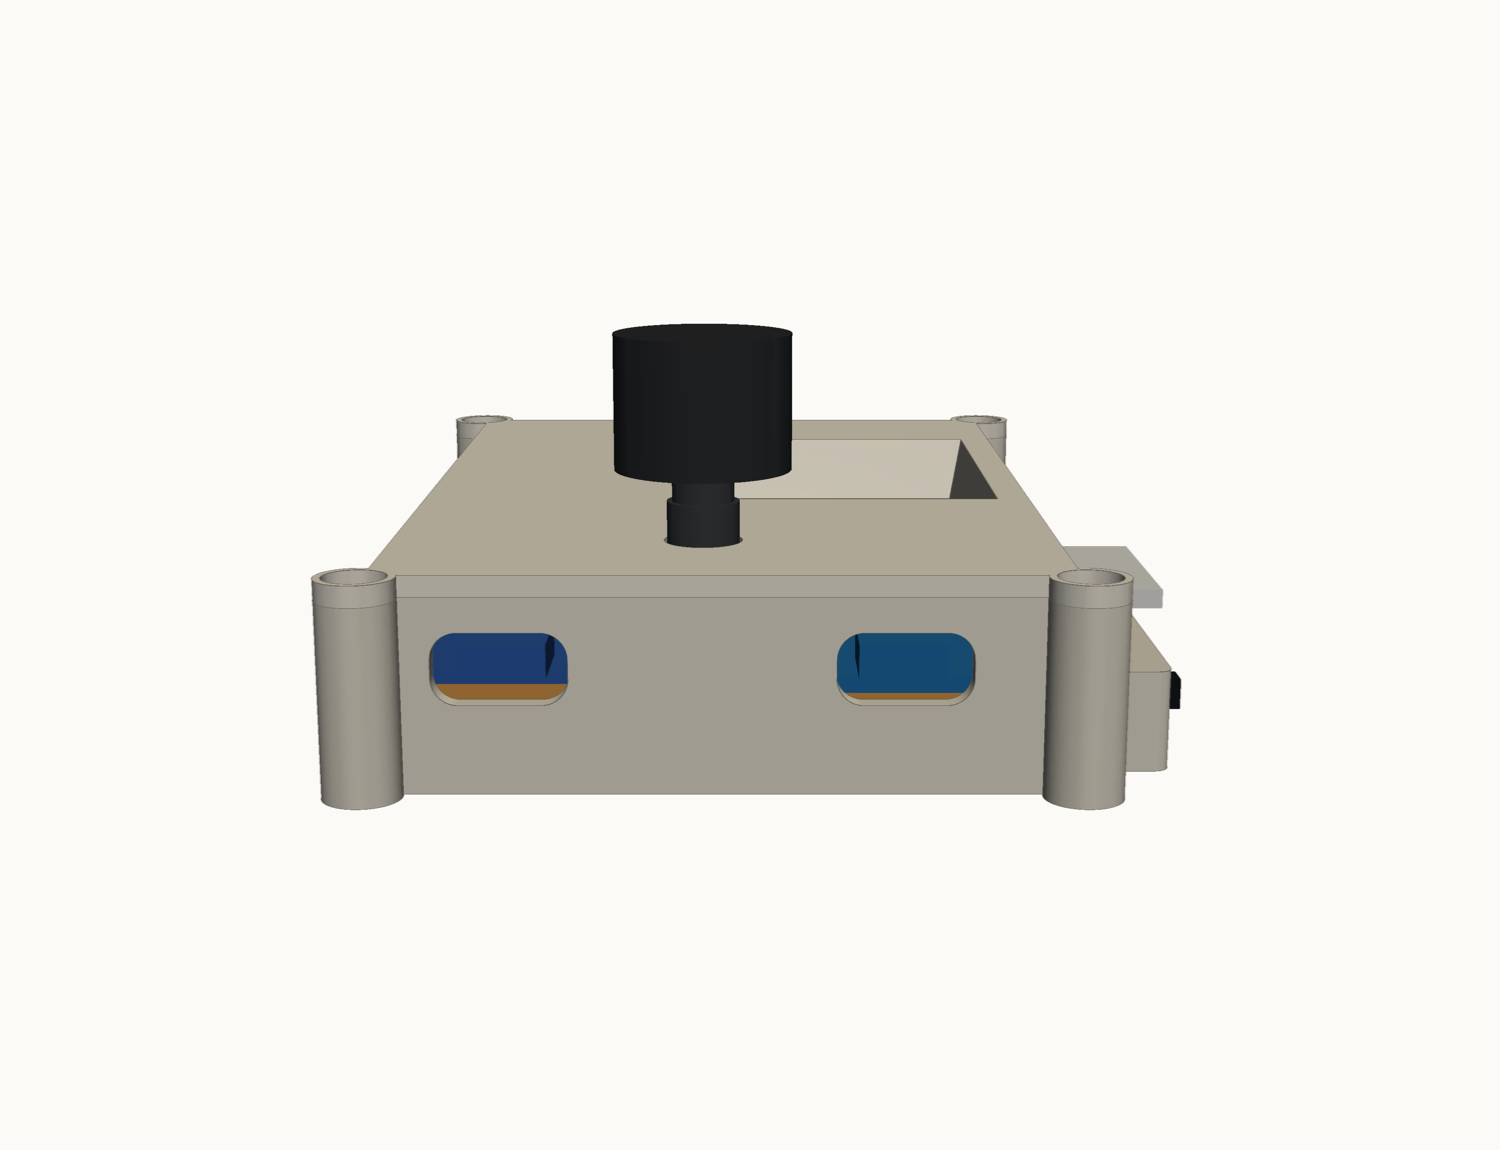
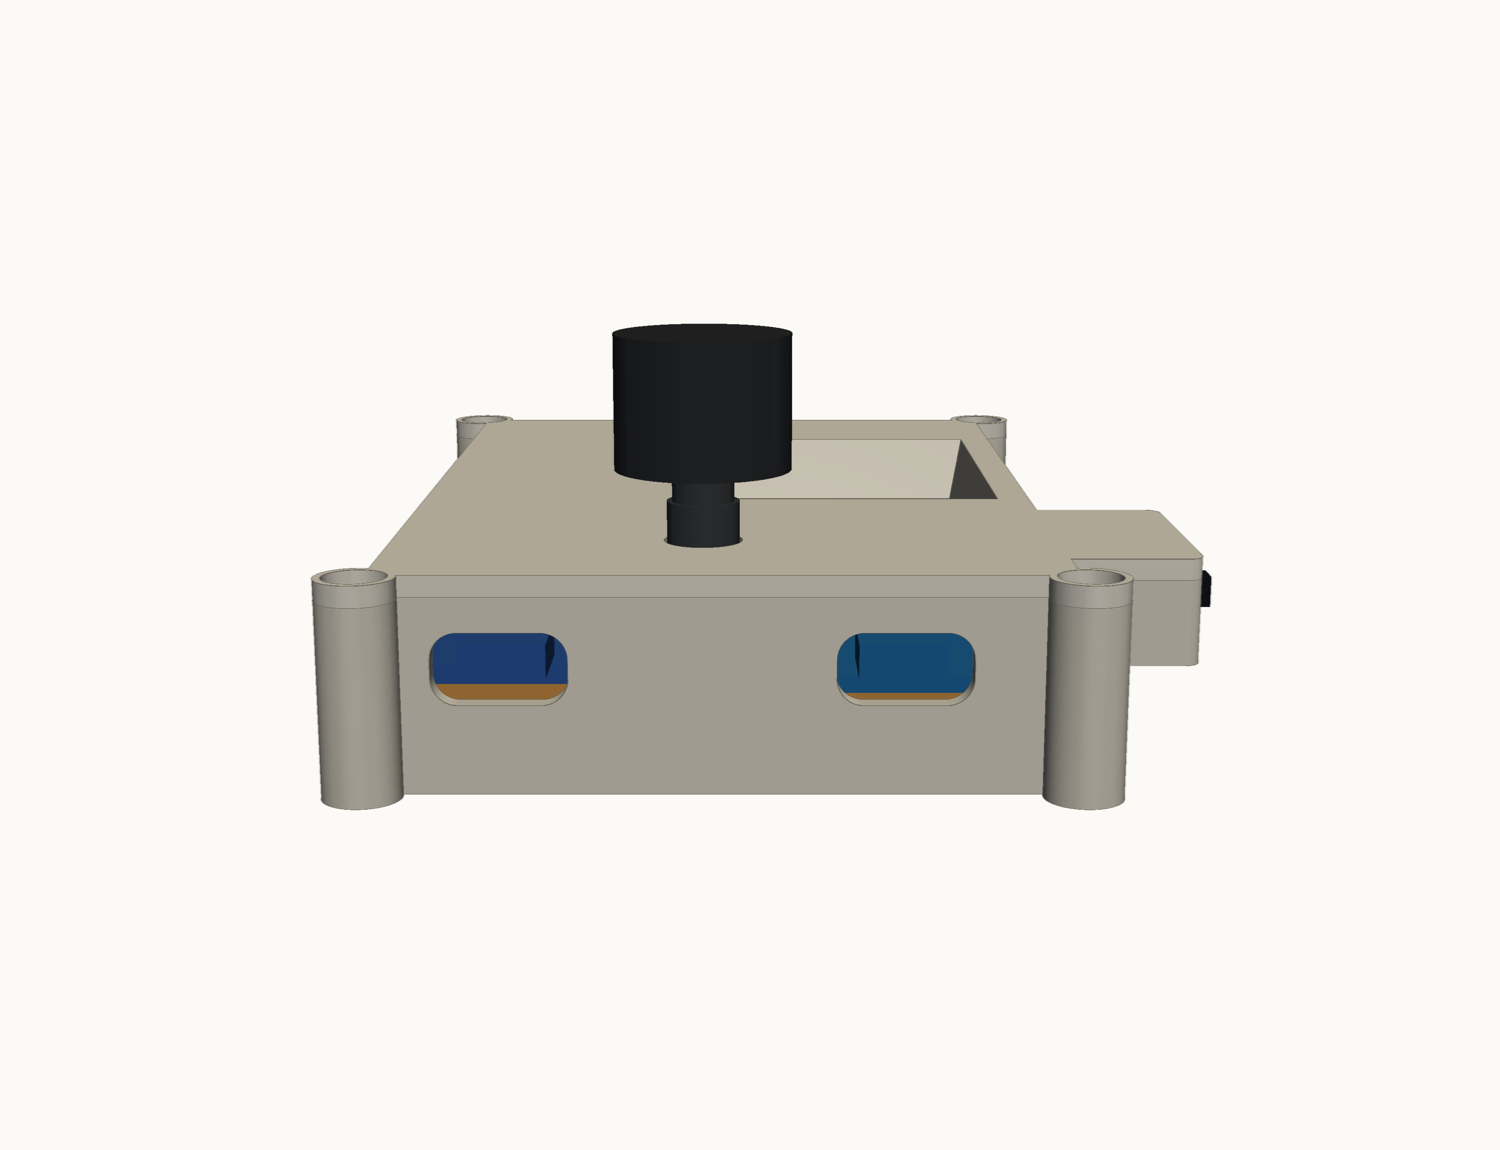
Case concept: switch pod level with the lid, open at the top, walls added to the pocket size

Changed region(s): [[0.6747, 0.4261, 0.828, 0.6696]]

diff --git a/hardware/case/paata_case.py b/hardware/case/paata_case.py
@@ -45,14 +45,22 @@ ENC_X, ENC_Y = 27.5, yd(76.7)
 WIN_X, WIN_Y, WIN_W, WIN_H = 41.9, yd(34.5), 30.0, 37.0      # screen window at the screen face
 
 # slide switch pod on the right wall (switch: body 10.5 x 5.7 x 5.0, 20 across the ears)
-# Owner's sizes: 10 out from the wall, pocket 20 long and 6 high (plus a little clearance).
-POD_D = 10.0                          # how far the pod stands out from the wall
+# Owner's sizes are the inside of the pocket: 10 out from the wall, 20 long, 6 high.
+# Walls are added on top. The pocket is open at the top and closed by the lid, so the
+# switch drops in from above.
+POCKET_D, POCKET_L, POCKET_H = 10.0, 20.4, 6.2
 POD_WALL = 2.5                        # outer wall, which the ears screw to
 POD_END = 2.0                         # end walls
-POD_ROOF = 1.5
-POCKET_L, POCKET_H = 20.4, 6.2
-SW_Y, SW_Z = 16.5, POCKET_H / 2       # the pocket sits on the case floor
+POD_FLOOR = 2.0
+POD_OUT = POCKET_D + POD_WALL         # how far the pod stands out from the case wall
+SW_Y = 16.5
+SW_Z = ZTOP - POCKET_H / 2
 POD_Y0, POD_Y1 = SW_Y - POCKET_L / 2 - POD_END, SW_Y + POCKET_L / 2 + POD_END
+
+
+def pod_footprint():
+    xo = X1 + WALL
+    return Pos(xo + POD_OUT / 2 - 1, (POD_Y0 + POD_Y1) / 2) * RectangleRounded(POD_OUT + 2, POD_Y1 - POD_Y0, 1.5)
 
 
 def B(x0, x1, y0, y1, z0, z1):
@@ -74,13 +82,16 @@ def lugs():
 def base():
     xo = X1 + WALL
     b = Pos(0, 0, -FLOOR) * extrude(outline(), FLOOR + ZTOP)
-    pod = Pos(xo + POD_D / 2 - 1, (POD_Y0 + POD_Y1) / 2) * RectangleRounded(POD_D + 2, POD_Y1 - POD_Y0, 1.5)
-    b += Pos(0, 0, -FLOOR) * extrude(pod, FLOOR + POCKET_H + POD_ROOF)   # low pod, flat on the print bed
+    zb = ZTOP - POCKET_H - POD_FLOOR                                      # underside of the pod
+    b += Pos(0, 0, zb) * extrude(pod_footprint(), ZTOP - zb)
+    gusset = extrude(Plane.XZ.offset(-POD_Y1) * Polygon((xo - 0.5, zb), (xo + POD_OUT, zb), (xo - 0.5, zb - POD_OUT - 0.5), align=None),
+                     POD_Y1 - POD_Y0)                                     # 45 degree underside, prints without support
+    b += gusset & B(xo - 1, xo + POD_OUT + 1, POD_Y0, POD_Y1, -FLOOR, zb + 1)
     b -= B(X0, X1, Y0, Y1, 0, ZTOP + 1)                                   # board cavity
-    b -= B(X1 - 1, xo + POD_D - POD_WALL, SW_Y - POCKET_L / 2, SW_Y + POCKET_L / 2, 0, POCKET_H)   # switch pocket, open to the cavity
-    b -= B(xo + POD_D - POD_WALL - 1, xo + POD_D + 1, SW_Y - 4.5, SW_Y + 4.5, SW_Z - 2.2, SW_Z + 2.2)  # slider slot
+    b -= B(X1 - 1, xo + POCKET_D, SW_Y - POCKET_L / 2, SW_Y + POCKET_L / 2, ZTOP - POCKET_H, ZTOP + 1)   # switch pocket, open at the top and into the cavity
+    b -= B(xo + POCKET_D - 1, xo + POD_OUT + 1, SW_Y - 4.5, SW_Y + 4.5, SW_Z - 2.2, SW_Z + 2.2)          # slider slot
     for dy in (-8, 8):                                                    # pilot holes for the ear screws
-        b -= Pos(xo + POD_D - POD_WALL, SW_Y + dy, SW_Z) * Rot(0, 90, 0) * Cylinder(0.85, 4)
+        b -= Pos(xo + POCKET_D, SW_Y + dy, SW_Z) * Rot(0, 90, 0) * Cylinder(0.85, 4)
     b -= Pos(JACK_X, Y1 + WALL / 2, JACK_Z) * Rot(90, 0, 0) * Cylinder(3.6, WALL + 2)          # headphone jack
     for x in (USB_ESP_X, USB_CHG_X):                                      # USB-C openings, sized for the plug shell
         b -= Pos(x, Y0 - WALL / 2, USB_Z) * Rot(90, 0, 0) * extrude(RectangleRounded(12.5, 6.8, 2.5), WALL + 2, both=True)
@@ -91,7 +102,7 @@ def base():
 
 
 def lid():
-    l = Pos(0, 0, ZTOP) * extrude(outline(), LID)
+    l = Pos(0, 0, ZTOP) * extrude(outline() + pod_footprint(), LID)
     zb = SCREEN_Z + 0.5                                                   # the shroud stops just above the screen
     top_w, top_h, t = WIN_W + 3, WIN_H + 4, 1.2
     shroud = B(WIN_X - top_w / 2 - t, min(WIN_X + top_w / 2 + t, X1 - 0.2), WIN_Y - top_h / 2 - t, WIN_Y + top_h / 2 + t, zb, ZTOP)
@@ -119,9 +130,9 @@ def dummies():
         "display": (c(24.6, 59.1, 1.2, 59.4, 6.6, 8.2), "#c8372d"),
         "screen": (c(25.5, 58.5, 10.9, 53.7, 8.2, SCREEN_Z), "#11161c"),
         "sdcard": (c(40.0, 78.0, 22.8, 46.8, 4.6, 6.7), "#e8eaee"),
-        "switch": (B(X1 + WALL + POD_D - POD_WALL - 5.0, X1 + WALL + POD_D - POD_WALL, SW_Y - 5.25, SW_Y + 5.25, SW_Z - 2.85, SW_Z + 2.85)
-                   + B(X1 + WALL + POD_D - POD_WALL - 0.5, X1 + WALL + POD_D - POD_WALL, SW_Y - 10, SW_Y + 10, SW_Z - 2.85, SW_Z + 2.85)
-                   + B(X1 + WALL + POD_D - POD_WALL, X1 + WALL + POD_D + 2.5, SW_Y - 3.5, SW_Y - 0.5, SW_Z - 1.5, SW_Z + 1.5), "#16181c"),
+        "switch": (B(X1 + WALL + POCKET_D - 5.0, X1 + WALL + POCKET_D, SW_Y - 5.25, SW_Y + 5.25, SW_Z - 2.85, SW_Z + 2.85)
+                   + B(X1 + WALL + POCKET_D - 0.5, X1 + WALL + POCKET_D, SW_Y - 10, SW_Y + 10, SW_Z - 2.85, SW_Z + 2.85)
+                   + B(X1 + WALL + POCKET_D, X1 + WALL + POD_OUT + 2.5, SW_Y - 3.5, SW_Y - 0.5, SW_Z - 1.5, SW_Z + 1.5), "#16181c"),
     }
 
 

diff --git a/.claude/CLAUDE.md b/.claude/CLAUDE.md
@@ -128,11 +128,13 @@ Board is built and wired (2026-11-15). Owner's caliper readings of the finished 
   writes `concept-*.png` and git-ignored STLs. Base tray + flat lid held by four M3
   screws in outside corner lugs (owner asked for M3); screen seen through a tapered well
   in the lid; knob through the lid; jack hole in the top wall, two USB-C openings in the
-  bottom wall, SD slot in the right wall; switch in a low pod on the right wall beside the
-  charger, sized by the owner (10 mm out, pocket 20 long × 6 high; I added 0.4/0.2
-  clearance and walls, so 24.4 long × 9.7 tall outside, sitting on the case floor level),
-  slider out sideways, ears screwed to the pod wall from inside through the wall opening. About
-  79 × 104 × 20.5 mm over lugs and pod. Port, window and knob positions are estimates
+  bottom wall, SD slot in the right wall; switch in a pod on the right wall beside the
+  charger. Owner's rules for the pod (2026-11-15): its sizes are the inside of the pocket
+  (10 out, 20 long, 6 high) and walls are added on top; the pod is level with the lid and
+  the lid forms its top, so the switch drops in from above. Outside: 12.5 out, 24.4 long,
+  8.2 tall plus the lid, 45° underside so it prints without support. Slider out sideways,
+  ears screwed to the pod's outer wall. About
+  81 × 104 × 20.5 mm over lugs and pod. Port, window and knob positions are estimates
   from photos; no board supports yet. Not printable until those are measured.
 
 ## Library / NAS conventions
